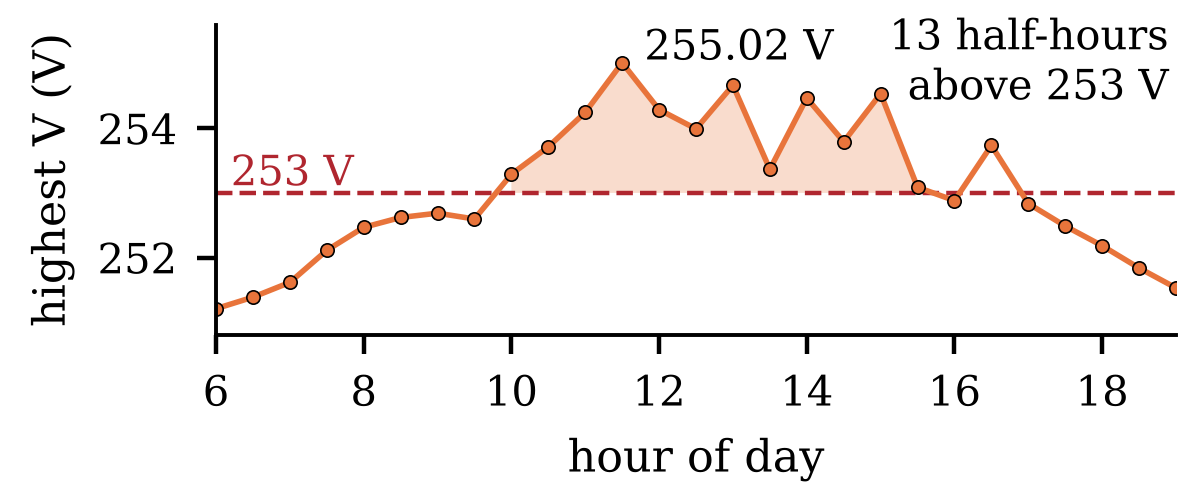
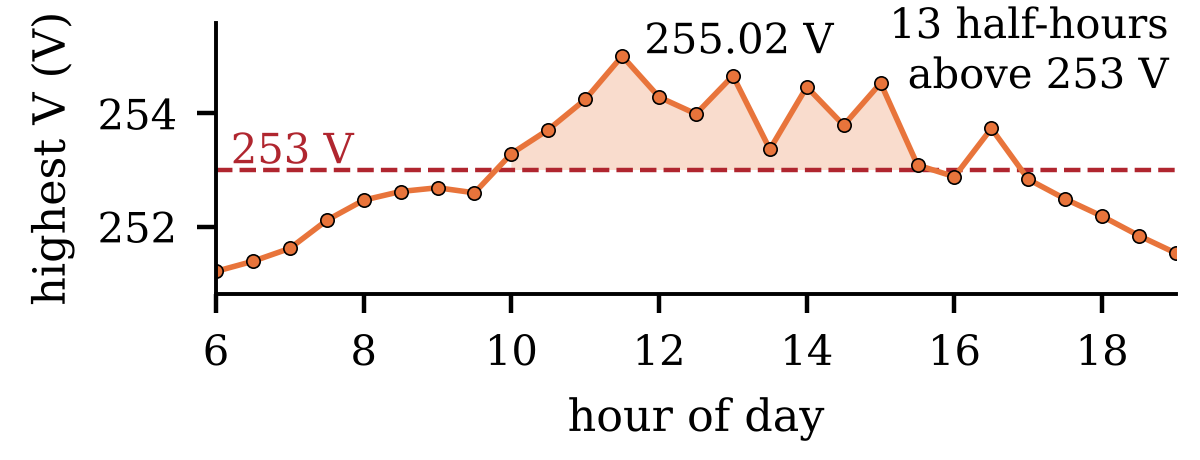
Paper figures: final draft sizes
Claude-Session: https://claude.ai/code/session_01YLemEPW87EuHg3uB24Vzoz

diff --git a/figures/fig_paper.py b/figures/fig_paper.py
@@ -21,7 +21,7 @@ W = 3.0  # inches, one column
 e = pd.read_csv(os.path.join(R, "doe_record_errors_1200.csv"))
 s = pd.read_csv(os.path.join(R, "doe_source_sweep.csv"))
 all22 = float(s[(s.setting == "day_1200") & (abs(s.source_pu - 1.03) < 1e-6)].A_gap_kW.iloc[0])
-fig, a = plt.subplots(figsize=(W, 1.45))
+fig, a = plt.subplots(figsize=(W, 1.35))
 groups = [("scatter", 0.05, "5"), ("scatter", 0.10, "10"), ("scatter", 0.20, "20"),
           ("wrongtype", 2.0, "2"), ("wrongtype", 5.0, "5"), ("wrongtype", 11.0, "11")]
 rng = np.random.default_rng(1)
@@ -37,7 +37,7 @@ a.text(1, -0.27, "scatter in R (%)", ha="center", va="top", fontsize=7.5, transf
 a.text(4.5, -0.27, "segments 4 mm²", ha="center", va="top", fontsize=7.5, transform=a.get_xaxis_transform())
 a.set_ylim(-0.4, 2.6)
 a.set_ylabel("gap (kW)")
-fig.subplots_adjust(left=0.17, right=0.98, top=0.96, bottom=0.36)
+fig.subplots_adjust(left=0.17, right=0.98, top=0.96, bottom=0.38)
 fig.savefig("fig_paper_1.png", dpi=400)
 
 # ---- Fig. 2: one measured day
@@ -45,7 +45,7 @@ t = pd.read_csv(os.path.join(R, "doe_timeseries.csv"))
 day = t[t.daylight == "yes"]
 hrs = np.array([int(x[:2]) + int(x[3:]) / 60 for x in day.time])
 v = day.A_pv_V_VW.values
-fig, a = plt.subplots(figsize=(W, 1.25))
+fig, a = plt.subplots(figsize=(W, 1.15))
 a.axhline(253, color=RED, lw=0.8, ls="--")
 a.plot(hrs, v, "-o", color=ORANGE, ms=2.4, mec="black", mew=0.3, lw=1)
 a.fill_between(hrs, 253, v, where=v > 253, color=ORANGE, alpha=0.25, lw=0)
@@ -57,6 +57,6 @@ a.set_xlim(6, 19); a.set_xticks([6, 8, 10, 12, 14, 16, 18])
 a.set_ylim(250.8, 255.6)
 a.set_xlabel("hour of day")
 a.set_ylabel("highest V (V)")
-fig.subplots_adjust(left=0.18, right=0.98, top=0.95, bottom=0.33)
+fig.subplots_adjust(left=0.18, right=0.98, top=0.95, bottom=0.36)
 fig.savefig("fig_paper_2.png", dpi=400)
 print("all22", round(all22, 3), "over", over, "peak", round(np.nanmax(v), 2))
